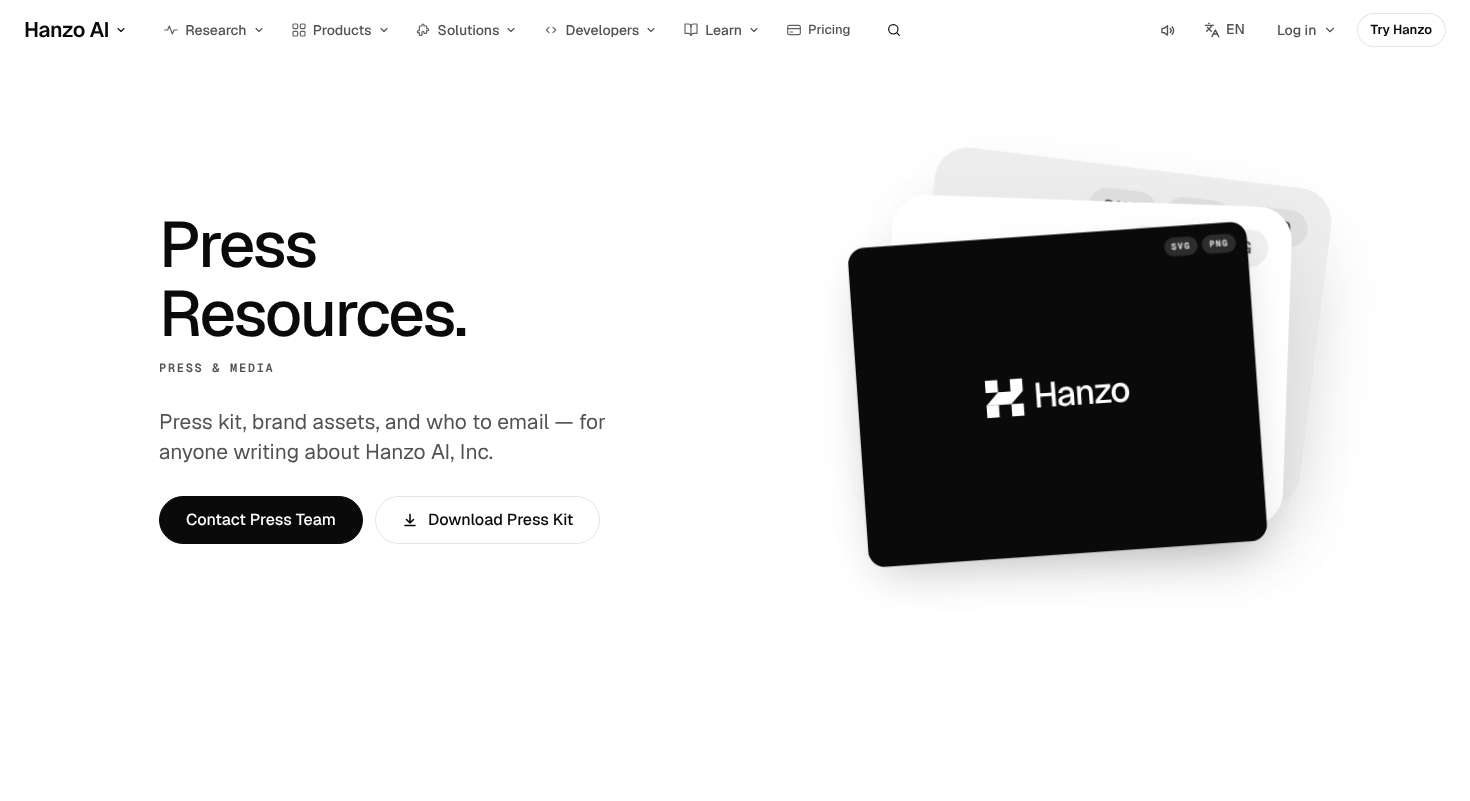
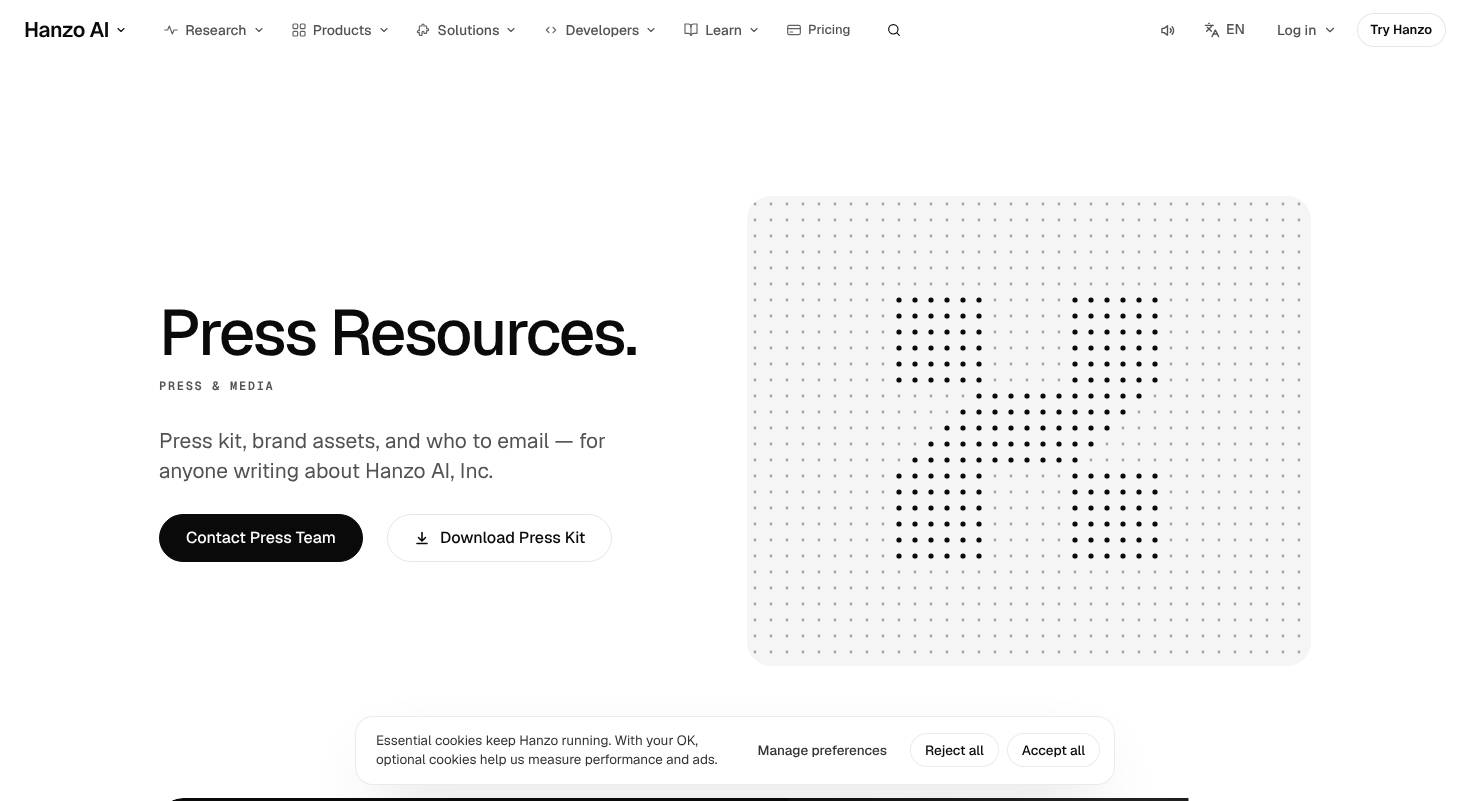
press: motion-map rebuild verified and finished (kit baseline, light plate, zip clip, calmer skew and drop, idle ripples), Ready
Claude-Session: https://claude.ai/code/session_01P5YBdwnSSVASfNEEi92hQ4

diff --git a/components/pages/press/MagnetGrid.jsx b/components/pages/press/MagnetGrid.jsx
@@ -2,7 +2,8 @@
 /* MagnetGrid (/press signature, motion map `magnet-grid`): the press kit as a field of dots. Hanzo's mark is drawn in
    the field (ink dots inside the mark, grey dots around it). The field bends toward the cursor (or a finger) and a
    click or tap sends a ripple out from that point. On arrival one ripple runs from the mark's centre, then the field
-   rests; it only animates while something is moving (pointer near, ripple alive, dots settling), and only on screen.
+   rests, apart from three slow idle ripples from points of the mark (one every 5.2 s while on screen and untouched,
+   finite like the kit's sheen); it only animates while something is moving (pointer near, ripple alive, dots settling), and only on screen.
    Reduced motion: a still field. JS off: the quiet tile with the mark (the SVG fallback underneath).
    Page-local to /press. */
 import { useEffect, useRef } from 'react';
@@ -74,10 +75,20 @@ export default function MagnetGrid({ className = '', label }) {
     const leave = () => { ptr.on = false; kick(); };
     const down = (e) => { const [x, y] = at(e); rip.push({ x, y, t0: performance.now() }); if (rip.length > 4) rip.shift(); if (e.pointerType !== 'mouse') { ptr.x = x; ptr.y = y; ptr.on = true; last = performance.now(); setTimeout(leave, 500); } kick(); };
     build(); draw();
-    let arrived = false;
+    let arrived = false, idle = 0, idles = 0;
+    const breathe = () => {
+      idle = 0;
+      if (idles >= 3) return;
+      if (seen && !ptr.on && !rip.length) {
+        const ink = dots.filter((d) => d.m);
+        const d = ink[Math.floor(Math.random() * ink.length)];
+        if (d) { rip.push({ x: d.hx, y: d.hy, t0: performance.now() }); idles += 1; kick(); }
+      }
+      idle = setTimeout(breathe, 5200);
+    };
     const io = new IntersectionObserver(([en]) => {
       seen = en.isIntersecting;
-      if (seen && !arrived && !calm) { arrived = true; rip.push({ x: W / 2, y: H / 2, t0: performance.now() + 250 }); }
+      if (seen && !arrived && !calm) { arrived = true; rip.push({ x: W / 2, y: H / 2, t0: performance.now() + 250 }); idle = setTimeout(breathe, 5200); }
       kick();
     }, { threshold: 0.3 });
     io.observe(box);
@@ -88,7 +99,7 @@ export default function MagnetGrid({ className = '', label }) {
       c.addEventListener('pointerleave', leave);
       c.addEventListener('pointerdown', down);
     }
-    return () => { io.disconnect(); ro.disconnect(); cancelAnimationFrame(raf); c.removeEventListener('pointermove', move); c.removeEventListener('pointerleave', leave); c.removeEventListener('pointerdown', down); };
+    return () => { clearTimeout(idle); io.disconnect(); ro.disconnect(); cancelAnimationFrame(raf); c.removeEventListener('pointermove', move); c.removeEventListener('pointerleave', leave); c.removeEventListener('pointerdown', down); };
   }, []);
   return (
     <div ref={wrap} className={'xmg ' + className}>

diff --git a/components/pages/Press.css b/components/pages/Press.css
@@ -59,9 +59,14 @@
 /* 2. the kit: three plates in a row, pulled back from a close-up of the dark plate */
 .xpe-kit { padding: clamp(24px, 3vw, 48px) 0 clamp(48px, 6vw, 96px); }
 .xen-pb { overflow: hidden; border-radius: 24px; }
+/* the clip's rounded corner must not bite the zip line at its foot: room below it, given back to the section */
+.xpe-kit .xen-pb { padding-bottom: 24px; margin-bottom: -24px; }
 .xpe-kit-g > .xen { grid-column: 1 / -1; display: grid; row-gap: 32px; }
-.xpe-plates { position: relative; grid-column: 1 / -1; list-style: none; margin: 0; padding: 0; display: grid; grid-template-columns: minmax(0, 6fr) minmax(0, 3fr) minmax(0, 3fr); column-gap: 24px; align-items: end; }
-.xpe-kitc-w { position: relative; display: flex; flex-direction: column; gap: 16px; }
+/* plates share one baseline and their titles one top line (a subgrid row each), whatever a title's length */
+.xpe-plates { position: relative; grid-column: 1 / -1; list-style: none; margin: 0; padding: 0; display: grid; grid-template-columns: minmax(0, 6fr) minmax(0, 3fr) minmax(0, 3fr); grid-auto-rows: auto; column-gap: 24px; }
+.xpe-kitc-w { position: relative; display: grid; grid-row: span 2; grid-template-rows: subgrid; row-gap: 16px; }
+.xpe-kitc-w > .xpe-kp { align-self: end; }
+.xpe-kitc-w > .xpe-kitc-t { align-self: start; }
 .xpe-kp { position: relative; display: block; aspect-ratio: 4 / 3.2; border-radius: 24px; overflow: hidden; text-decoration: none; transform-origin: 50% 50%; transition: box-shadow .15s cubic-bezier(0, 0, .2, 1); }
 .xpe-plate { display: flex; align-items: center; justify-content: center; gap: 14px; width: 100%; height: 100%; color: #fff; background: #0a0a0a; font-size: 22px; }
 .xpe-plate b { font-size: 1.6em; font-weight: 497; letter-spacing: -.035em; }
@@ -69,7 +74,7 @@
 .xpe-kitc-w.dark .xpe-plate { position: relative; overflow: hidden; }
 .xpe-kitc-w.dark .xpe-plate::after { content: ''; position: absolute; inset: -20% auto -20% 0; width: 40%; background: linear-gradient(100deg, rgba(255, 255, 255, 0), rgba(255, 255, 255, .1), rgba(255, 255, 255, 0)); transform: translateX(-120%) skewX(-12deg); animation: xpe-sheen 4.8s cubic-bezier(.4, 0, .2, 1) .9s 3 both; pointer-events: none; }
 @keyframes xpe-sheen { 0% { transform: translateX(-120%) skewX(-12deg); } 90%, 100% { transform: translateX(320%) skewX(-12deg); } }
-.xpe-plate.light { background: #fff; color: #0a0a0a; }
+.xpe-plate.light { background: var(--xr); color: #0a0a0a; }
 .xpe-plate.icon { background: var(--xk); color: #0a0a0a; }
 .xpe-kitc-w.dark .xpe-plate { font-size: 30px; }
 .xpe-fmt { position: absolute; top: 16px; right: 16px; display: flex; gap: 6px; }

diff --git a/components/pages/Press.jsx b/components/pages/Press.jsx
@@ -1,15 +1,17 @@
 'use client';
-/* /press. V2: 8/10 Story on the Hanzo deck (third review's fixes: scale rhythm, a beat per lower section, phone news card, kit signature). The headline and its one ask sit beside a stack of the
-   three press-kit plates; scroll and the stack itself fans out into the kit (one object, one pinned stage, never shown
-   twice). Hanzo's boilerplate is read word by word, the four facts settle once, the news reads as an editorial index with
+/* /press. V2: 8/10 slice D: the motion-map rebuild verified (magnet-grid signature with three idle ripples; conveyor, pull-back,
+   velocity-skew calmed to 3°, orbit-in, stack-drop without bounce), kit plates on one baseline, light plate visible, zip line unclipped.
+   The headline and its one ask sit beside the magnet grid (Hanzo's mark in a field of dots that bends to the pointer
+   and ripples at a click); the three press-kit plates follow, pulled back from a close-up of the dark one. Hanzo's boilerplate is read word by word, the four facts settle once, the news reads as an editorial index with
    a card beside the row you point at, press contact is the one black room where the email cuts in with its copy button
    beside it, then brand assets with the partners as one still row, the channels as a hairline list, and the leadership.
    Persona: a journalist or analyst writing about Hanzo (MASTER: investors and press).
    Goal: leave with the kit, the facts and the right person to email.
    CTA: "Contact Press Team" (mailto:press@hanzo.ai) in the hero and the shared sticky ask bar (data-thumb), data-cta
    press.hero; "Request Executive Bios" (press.bios) closes the page; metric: one contact click.
-   Signature: the kit deals out. The three press-kit plates sit as one stack beside the headline; pinned, the stack fans
-   out into the kit spread as you scroll (stack to spread), a move no other page makes. A sheen crosses the dark plate.
+   Signature (MOTION-MAP `magnet-grid`, press/MagnetGrid.jsx): Hanzo's mark drawn in a field of dots beside the headline;
+   the field bends toward the pointer, a click or tap ripples out, one ripple on arrival and three slow idle ones.
+   Entrances (press/Enter.jsx, in order): conveyor, pull-back, velocity-skew, orbit-in, stack-drop. A sheen crosses the dark plate.
    Demoted to support: the boilerplate read word by word (scroll), the facts settling once.
    Supporting (3): masked headline cut-in, once (with the team names and section heads); the boilerplate word fill
    (scroll); the email typed into the black room, one beat per section below it (time: the partner hairlines drawing

diff --git a/components/pages/press/Enter.jsx b/components/pages/press/Enter.jsx
@@ -47,7 +47,7 @@ export function VelocitySkew({ children, className = '' }) {
   const calm = useReducedMotion();
   const { scrollY } = useScroll();
   const v = useVelocity(scrollY);
-  const raw = useTransform(v, [-1400, 0, 1400], [9, 0, -9], { clamp: true });
+  const raw = useTransform(v, [-1800, 0, 1800], [3, 0, -3], { clamp: true }); // a lean, not a lurch: 3° at a fast flick
   const skewY = useSpring(raw, { stiffness: 260, damping: 32, mass: 0.6 });
   return <motion.div className={'xen ' + className} style={calm ? undefined : { skewY }}>{children}</motion.div>;
 }
@@ -73,8 +73,8 @@ export function StackDrop({ children, className = '' }) {
   return (
     <motion.div className={className} initial="off" whileInView="on" viewport={VIEW}>
       {Children.map(children, (c, i) => (
-        <motion.div className="xen xen-sd" variants={{ off: { y: -160, rotate: i % 2 ? 1.5 : -1.5, opacity: 0 }, on: { y: 0, rotate: 0, opacity: 1 } }}
-          transition={calm ? { duration: 0 } : { type: 'spring', stiffness: 420, damping: 24, mass: 0.9, delay: i * 0.2, opacity: { duration: 0.15, delay: i * 0.2 } }}>
+        <motion.div className="xen xen-sd" variants={{ off: { y: -96, rotate: i % 2 ? 1 : -1, opacity: 0 }, on: { y: 0, rotate: 0, opacity: 1 } }}
+          transition={calm ? { duration: 0 } : { type: 'spring', stiffness: 420, damping: 32, mass: 0.9, delay: i * 0.2, opacity: { duration: 0.15, delay: i * 0.2 } }}>
           {c}
         </motion.div>
       ))}

diff --git a/docs/coverage/press.md b/docs/coverage/press.md
@@ -31,7 +31,7 @@ Forks this page deleted:
 - [x] No dead or self-looping button
 - [x] Open copy questions for James listed, none decided
 
-Done here: at 1470×801 the h1, its caption, the lede and both actions sit above the fold beside the kit stack. At 375×812 the ask ends at y≈411.
+Done here: at 1470×801 the h1, its caption, the lede and both actions sit above the fold beside the magnet grid (Hanzo's mark in a field of dots). At 375×812 the ask ends at y≈411.
 
 ## 2. Information architecture and navigation
 - [x] One `<main id="main">` and the skip link (both from the layout)
@@ -48,13 +48,13 @@ Done here: links 20/20.
   - 0 faint or offset text.
   - The pointer card is hidden.
   - All six summaries show.
-  - The pinned stage lies flat.
+  - No pinned stage: the hero and the kit are plain sections.
   - The boilerplate sits beside its heading, because the `<noscript>` moved out of the grid.
-- [x] One idea per 100svh, and the rhythm varies: the pinned hero-kit stage, the statement, the facts, the news, the black room, the assets row, the hairline list, the quiet team room.
+- [x] One idea per 100svh, and the rhythm varies: the hero with its magnet grid, the kit, the statement, the facts, the news, the black room, the assets row, the hairline list, the quiet team room.
 - [x] Ends on the page's own closing link ("Request Executive Bios"), then the footer.
 - [ ] n/a: Morph. No card opens into a page; the news rows link to /blog, as on hanzo.ai.
 
-Done here: the hero and the kit are one object. As the stage scrolls, the headline fades and the stack fans out into the three kit plates. The three plates are never shown twice.
+Done here: the hero rides in on a conveyor beside the magnet grid, which ripples once from the mark on arrival (motion inside the first second). The kit follows as its own section, pulled back from a close-up of the dark plate; the plates are shown once, on one baseline with their titles on one top line (subgrid).
 
 ## 4. Conversion system
 - [x] No raw `.x-btn`. The ask is a page-local pill until kit `Cta` merges.
@@ -88,7 +88,7 @@ Done here: text 83/83, links 20/20. Every Hanzo label is visible:
 - [x] No label above a headline. All captions sit below.
 - [x] Never box plus shadow. Only the floating kit plates take the deck's floating shadow. The news column, the tiles and the guidelines card are flat fills; the partners and channels are hairline lists (no three equal boxes anywhere).
 - [x] One icon set; no icon in a rounded box (the channel icon circles are gone)
-- [x] Differs from neighbours: a stack that turns into a spread on scroll, which /brand, /investors and /contact don't have
+- [x] Differs from neighbours: the mark as a magnetic dot field (MOTION-MAP `magnet-grid`), which /brand, /investors and /contact don't have
 
 Done here:
 - deck.css's `--ink2: #525252` is back. Page tokens use their own names (`--xi`, `--xs`, `--xm`, `--xr`, `--xk`), so ledes, body and labels show the deck's second tone again.
@@ -105,19 +105,20 @@ Done here: the copy buttons are 48px icons with an aria-label, and they sit besi
 
 ## 9. Motion and interaction
 - [x] One signature, 3 supporting, 1 fade-up (the lede and asks, in CSS)
-- [x] At least 3 kinds, scroll under half: arrival (line masks), scroll (the stage fan-out, the belief line), time (the email types itself, the partner hairlines draw one by one, the channel index walks 01 to 09 once, the team plates open, the phone news card walks the six stories once; each runs once in view, then rests), idle (the plate sheen), pointer (row focus steps the others back; plates, partners and channels answer hover), state (the news column swaps its story with a 300 ms rise and a progress hairline, copy and download ticks, the email mask)
+- [x] At least 3 kinds, scroll under half: arrival (line masks), scroll (velocity-skew on About, the belief line), time (the email types itself, the partner hairlines draw one by one, the channel index walks 01 to 09 once, the team plates open, the phone news card walks the six stories once; each runs once in view, then rests), idle (the grid's arrival ripple and three idle ripples, the plate sheen), pointer on the grid (dots bend, a click ripples), pointer (row focus steps the others back; plates, partners and channels answer hover), state (the news column swaps its story with a 300 ms rise and a progress hairline, copy and download ticks, the email mask)
 - [x] Something moves without input; every control answers
-- [x] Reduced motion shows the final state (plain words, settled facts, the full email with its copy button, drawn hairlines, open plates, the stage flat). The one `setInterval` (`useBeat`) runs only in view, never under reduced motion, and clears itself at its last step.
+- [x] Reduced motion shows the final state (plain words, settled facts, the full email with its copy button, drawn hairlines, open plates, a still dot field). The one `setInterval` (`useBeat`) runs only in view, never under reduced motion, and clears itself at its last step.
 - [ ] n/a: sound (kit not merged)
 
 Done here:
-- Signature: the kit deals out. The three press-kit plates sit as one stack beside the h1 and fan out into the kit spread as the pinned stage scrolls (230svh, ease-in-out); a sheen crosses the dark plate three times, then rests. No other page makes this move (the word fill is shared with Philosophy and Research, so it is demoted).
+- Signature (MOTION-MAP `magnet-grid`, `press/MagnetGrid.jsx`): Hanzo's mark drawn in a canvas field of dots; the field bends toward the pointer, a click or tap sends a ripple, one ripple runs on arrival and three slow idle ripples follow (5.2 s apart, measured: canvas changes at 0.4-2.9 s, 6.5-7.7 s, 11.8-13 s), then it rests. The rAF runs only while something moves and only on screen; reduced motion draws a still field. A sheen crosses the dark plate three times, then rests.
+- Entrances (`press/Enter.jsx`, in page order): conveyor (hero), pull-back (kit), velocity-skew (about, capped at 3°: measured 2.6° on a fast wheel), orbit-in (news), stack-drop (the black room, damped so it lands without a bounce).
 - Supporting:
   - line masks (the h1, every section head, the team names);
   - the belief line, demoted: 60 words go from opacity .16 to 1 with the scroll, then the facts settle;
   - one time beat per section below the news (the email typed with a caret, copy appearing after the last letter; partner hairlines drawn 160 ms apart; the channel index walking 01 to 09 once until pointed at; the team plates opening by clip; the guidelines mark drawing in);
   - the news index: a still dark column beside it holds the story in focus (`01 / 06` at 64px Air, a progress hairline, the summary and date rising in at 300 ms). Focus follows the pointer, the keyboard, or, untouched, the row crossing the middle of the screen. Nothing follows the cursor.
-- No springs.
+- No visible springs: stack-drop's spring is damped (32) so it settles without overshoot.
 
 ## 10. Media
 - [x] `Pic` (kit `Img`, with a fallback) only; sizes set
@@ -133,7 +134,7 @@ Done here: the portraits and partner logos load from Hanzo's /public paths. They
 - [x] Every target 44px or more; each summary shows under its headline
 - [x] Primary ask above the fold at 375×667
 
-Done here: on phones the stage lies flat. The dark plate spans the width, light and icon sit side by side, and the channels are a one-column hairline list with no mid-word breaks.
+Done here: on phones the grid is 4:3 under the asks. The dark plate spans the width, light and icon sit side by side, and the channels are a one-column hairline list with no mid-word breaks.
 
 ## 12. Accessibility (WCAG 2.2 AA)
 - [x] Contrast measured in the black room:
@@ -153,7 +154,7 @@ Done here: the news column is `aria-hidden`, because the summary it repeats is i
 - [x] No poller; no third-party request
 - [x] Filmed in the cloud
 
-Done here: transform, opacity and clip only. The stage reads one measurement on mount and on resize.
+Done here: transform, opacity and clip only; the magnet grid is one canvas whose rAF runs only while dots move and the field is on screen, rebuilt on resize (ResizeObserver).
 
 ## 14. SEO and machine files
 - [x] Title and description unchanged
@@ -179,13 +180,14 @@ Done here: n/a.
 - [ ] n/a: no submit
 - [x] A thrown island does not blank the page
 
-Done here: Playwright ran with hanzo.ai blocked, and the console was clean.
+Done here: Playwright ran with hanzo.ai's media missing locally: the only console lines are 8 resource errors (the 2 portraits and 6 partner logos under Hanzo's /authors and /press/partners paths, which this repo does not mirror); each falls back to its Sigil plate or letter chip, and there are no script errors.
 
 ## 18. Measurement and handover
 - [x] `data-cta` on every primary (`lib/track.js` pending)
 - [x] Nothing identifier-bearing
 - [x] `V2: 8/10 …` in the page file header
-- [x] Review read: `docs/review/press.md` was 6/10. Its fixes are done:
+- [x] Review read: `docs/review/press.md` (7/10, critic 3). Slice D, 7 Nov: the motion-map rebuild (left unverified mid-work) checked and finished: kit plates share a baseline and their titles a top line, the light plate has its grey ground (it was white on white), the zip line is no longer bitten by the pull-back clip's corner, velocity-skew calmed from 8° to 3°, stack-drop no longer bounces, the magnet grid breathes three idle ripples. The review's five fixes (phone pills, a live middle, tighter bands, boilerplate ink at rest, partners as one row) were done in ebf5c606 and hold.
+  Earlier: was 6/10. Its fixes are done:
   - the black room is lit;
   - the deck greys are back;
   - the captions are visible;

diff --git a/docs/review/press.md b/docs/review/press.md
@@ -1,4 +1,5 @@
 # /press: James-eye review (critic 3, 7 Nov)
+Ready: 2026-11-07, slice D — unverified motion-map rebuild checked and finished: kit plates on one baseline, light plate visible, zip line unclipped, velocity-skew 8°→3°, stack-drop without bounce, magnet grid breathes 3 idle ripples; review fixes from ebf5c606 hold (phone pills clear, news walks, partners one row)
 
 Verdict: 7/10
 First complaint: "On my phone the little SVG, PNG, ICO pills are printed straight through the logo. That's the press kit, the one thing a journalist comes for, and it looks broken."
